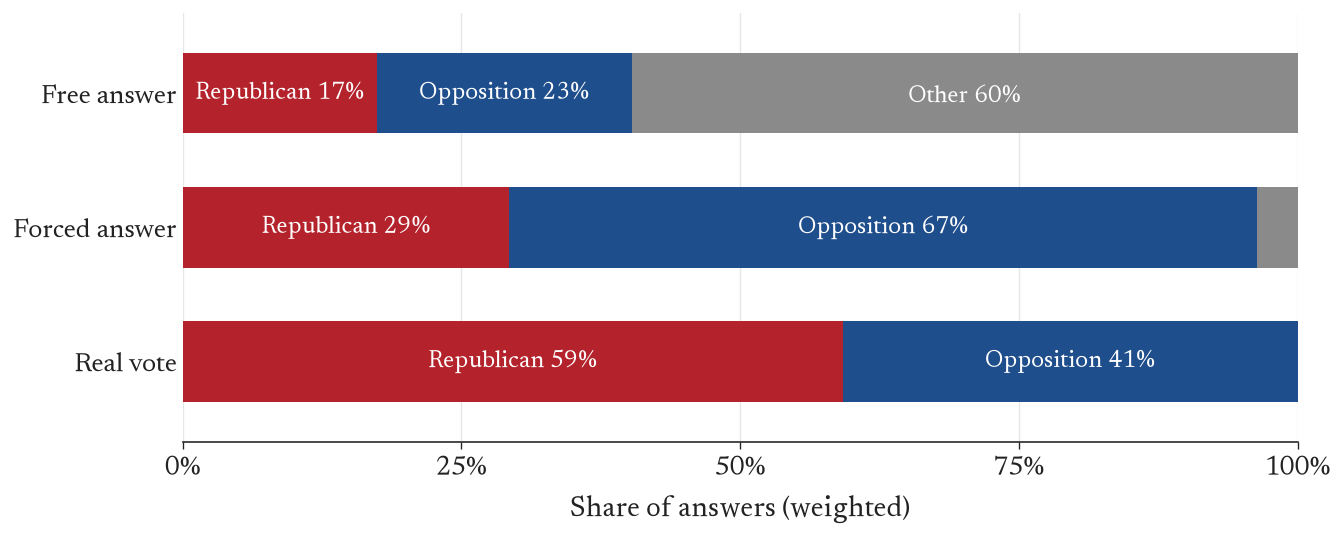
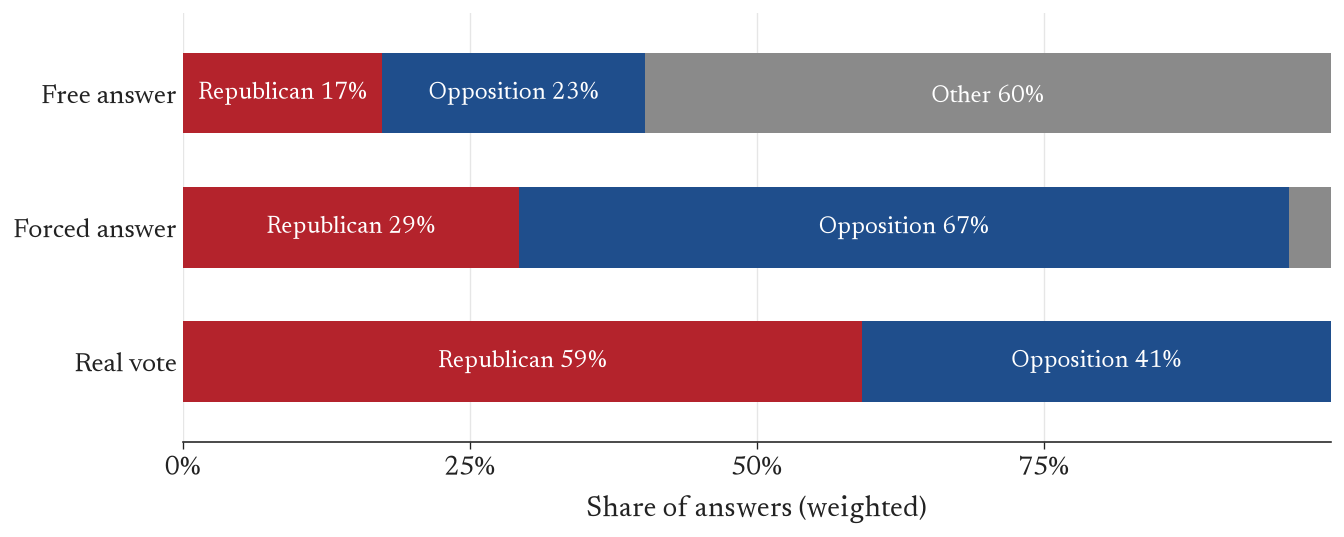
Wrote second opinions section and updated headers of files

diff --git a/docs/index.html b/docs/index.html
@@ -166,7 +166,7 @@ div.csl-indent {
 <section id="forecast" class="level2">
 <h2 class="anchored" data-anchor-id="forecast">The forecast</h2>
 <div id="cell-fig-seats" class="cell" data-execution_count="2">
-<div class="cell-output cell-output-display" data-execution_count="2">
+<div class="cell-output cell-output-display" data-execution_count="28">
 <div id="fig-seats" class="quarto-float quarto-figure quarto-figure-center anchored">
 <figure class="quarto-float quarto-float-fig figure">
 <div aria-describedby="fig-seats-caption-0ceaefa1-69ba-4598-a22c-09a6ac19f8ca">
@@ -183,7 +183,7 @@ Figure&nbsp;1: Republican seats after the 2026 election in 10,000 simulated elec
 <p>The most common outcomes are 52 Republican seats (10.4% of the simulations, also happens to be the median), 51 or 53 Republican seats (each 9.7% of the simulations), and an exact 50-50 tie (8.6% of the simulations). Republicans controlled the senate outright (51 or more seats) in 63% of the simulations. Republicans gained more seats compared to today (54 or more seats) in 33% of the simulations.</p>
 <p>Notice that the spread of the histogram is very wide. The 80% interval is from 47 to 57, which means that about 8 out of every 10 simulations have Republicans hold between 47 and 57 seats. The full range is 34 to 64 seats. Why is our histogram so wide? For every simulated election we introduce four kinds of uncertainty. First is a national error shared by every state, where we draw one number from a normal distribution with a set standard deviation of 3 percentage points to determine how far the forecast is off nationwide. This matters because if state wise errors were independent, they would often cancel each other out and lead to a bunched-together histogram around 52. Moving every state in the same direction is also honest because real polling misses also tend to run the same way across states, like in 2016 and 2020 <span class="citation" data-cites="gelman2020">(<a href="#ref-gelman2020" role="doc-biblioref">Gelman et al. 2020</a>)</span>. Second is a state error drawn for each separate race to capture local factors (effect of candidates, local issues, campaign success), it was measured as how far off the corrected forecast was for each state in the 2024 backtest and has a standard deviation of 4.7 percentage points. Third, in each simulation we pick one of two LLM models (GPT-4o mini or Llama 3.3 70B) and use its numbers for every state. And fourth, there is sampling error caused by the limited number of personas for each state (about 148 on average).</p>
 <div id="cell-fig-states" class="cell" data-execution_count="3">
-<div class="cell-output cell-output-display" data-execution_count="3">
+<div class="cell-output cell-output-display" data-execution_count="29">
 <div id="fig-states" class="quarto-float quarto-figure quarto-figure-center anchored">
 <figure class="quarto-float quarto-float-fig figure">
 <div aria-describedby="fig-states-caption-0ceaefa1-69ba-4598-a22c-09a6ac19f8ca">
@@ -272,7 +272,7 @@ Reply with exactly one of: Republican, Democrat, Other, Would not vote. No other
 <p>What is our backtest? We ran the same pipeline as described in the <a href="#method">method section</a>, but on the 2024 Senate races which already have known results. Here we had 4,833 personas in 33 races, and weights were <code>survey weight × each person’s validated 2024 turnout</code>. We compared the synthetic Republican share from each state with its actual 2024 result from <span class="citation" data-cites="wiki2024">Wikipedia contributors (<a href="#ref-wiki2024" role="doc-biblioref">2026a</a>)</span>. It is from this test that we got our calibration line and 4.7-point state error used to forecast 2026.</p>
 <p>Before any correction, the average lean (actual – synthetic) was +1.6 points for GPT and +3.3 points for Llama, meaning that real results were more Republican. The average miss was 5.7 points for GPT and 6.4 points for Llama. Both models called 28 out of 33 races correctly. Synthetic voters were too Democratic by an average of 4.3 points (GPT) and 6.5 points (Llama) in the 19 races that Democrats won. Synthetic voters were too Republican by a smaller average of 2.0 (GPT) and 1.0 (Llama) in the 14 races Republicans won. This matches <span class="citation" data-cites="bisbee2024">Bisbee et al. (<a href="#ref-bisbee2024" role="doc-biblioref">2024</a>)</span>, where synthetic samples show too little variation and exaggerate difference between groups. In <a href="#fig-backtest" class="quarto-xref">Figure&nbsp;3</a> below, the solid calibration line being flatter than the dashed line visualizes this “too extreme”. The wrong calls were mostly very close races. Both models incorrectly called Nevada, Pennsylvania, Wisconsin, and Ohio, which were all races that were decided by just a few points in 2024. After correction, GPT’s average miss fell to 3.9 points, and Llama’s fell to 3.8 points. GPT called 29 races, but Llama correctly called 28 still. We used leave-one-out to fit a line without the state being predicted, because partly fitting a line to the state being predicted may lead us to overestimate the improvement.</p>
 <div id="cell-fig-backtest" class="cell" data-execution_count="6">
-<div class="cell-output cell-output-display" data-execution_count="6">
+<div class="cell-output cell-output-display" data-execution_count="32">
 <div id="fig-backtest" class="quarto-float quarto-figure quarto-figure-center anchored">
 <figure class="quarto-float quarto-float-fig figure">
 <div aria-describedby="fig-backtest-caption-0ceaefa1-69ba-4598-a22c-09a6ac19f8ca">
@@ -286,7 +286,7 @@ Figure&nbsp;3: 2024 backtest. Each dot is one of the 33 Senate races of 2024: th
 </div>
 </div>
 <div id="cell-fig-agreement" class="cell" data-execution_count="7">
-<div class="cell-output cell-output-display" data-execution_count="7">
+<div class="cell-output cell-output-display" data-execution_count="33">
 <div id="fig-agreement" class="quarto-float quarto-figure quarto-figure-center anchored">
 <figure class="quarto-float quarto-float-fig figure">
 <div aria-describedby="fig-agreement-caption-0ceaefa1-69ba-4598-a22c-09a6ac19f8ca">
@@ -305,7 +305,7 @@ Figure&nbsp;4: Person by person in 2024: the share of synthetic voters who pick 
 <section id="independents" class="level2">
 <h2 class="anchored" data-anchor-id="independents">The independents problem</h2>
 <div id="cell-fig-independents" class="cell" data-execution_count="8">
-<div class="cell-output cell-output-display" data-execution_count="8">
+<div class="cell-output cell-output-display" data-execution_count="34">
 <div id="fig-independents" class="quarto-float quarto-figure quarto-figure-center anchored">
 <figure class="quarto-float quarto-float-fig figure">
 <div aria-describedby="fig-independents-caption-0ceaefa1-69ba-4598-a22c-09a6ac19f8ca">
@@ -318,19 +318,15 @@ Figure&nbsp;5: The 711 pure independents in the 2024 backtest. Free answer: what
 </div>
 </div>
 </div>
-<div class="write">
-<p>Asked freely, the models give 60% of pure independents’ answers to “Other”. Forced to choose, they send them to the opposition (67%), while the same people reported voting 59% Republican. Explain why we used the forced choice anyway and that it is the same in 2024 and 2026. Connect to mode collapse in <span class="citation" data-cites="heath2026">Heath and Alexander (<a href="#ref-heath2026" role="doc-biblioref">2026</a>)</span>.</p>
-</div>
+<p>For pure independents, 60% of model answers were “Other”. However in our 2024 backtest, 351 of the 360 pure independents who reported a Senate vote voted for a Republican or their main opposition. This is an example of mode collapse as mentioned in <span class="citation" data-cites="heath2026">Heath and Alexander (<a href="#ref-heath2026" role="doc-biblioref">2026</a>)</span>, where the models settle on a safe answer and fail to capture the spread the real voters provide. In our study “Other” answers do not count for a persona’s Republican share, so about half of pure independents had no usable answers when answering freely. To alleviate this, we included a forced-choice follow-up: “If you had to choose between the Republican candidate and the Democratic candidate…” The forced-choice gave the opposition 67% of the answers, but in reality 59% of the group voted Republican. We used this follow-up in both the 2024 backtest and the 2026 forecast, so the calibration line can correct part of the lean on average across each state. We decided to keep this change because to trade answers that would have been discarded for a bias that we could measure in the 2024 backtest.</p>
 </section>
 <section id="second-opinions" class="level2">
 <h2 class="anchored" data-anchor-id="second-opinions">Second opinions</h2>
 <section id="a-regression-forecast" class="level3">
 <h3 class="anchored" data-anchor-id="a-regression-forecast">A regression forecast</h3>
-<div class="write">
-<p>Two or three sentences on the regression: a ridge regression of each state’s Senate vote on its lagged demographics and partisanship, 2014 to 2024, checked against certified results. The full write-up and code are in the repository (<code>paper/_regression.qmd</code>, <code>scripts/05-regression.py</code>). The two methods name the same winner in 31 of 35 races.</p>
-</div>
+<p>As a second opinion, we ran a ridge regression that predicts each state’s Senate vote share using state demographics from the American Community Survey (ACS) and partisanship from CES. The regression is trained on the 2014 to 2024 Senate races. The ridge regression and our silicon forecast predicted the same winner in 31 out of 35 races. They disagreed in Florida, Georgia, Montana and North Carolina. See <a href="#tbl-accuracy" class="quarto-xref">Table&nbsp;1</a> below for comparisons of winners called and average misses between our ridge and silicon sampling.</p>
 <div id="cell-fig-regression" class="cell" data-execution_count="9">
-<div class="cell-output cell-output-display" data-execution_count="9">
+<div class="cell-output cell-output-display" data-execution_count="35">
 <div id="fig-regression" class="quarto-float quarto-figure quarto-figure-center anchored">
 <figure class="quarto-float quarto-float-fig figure">
 <div aria-describedby="fig-regression-caption-0ceaefa1-69ba-4598-a22c-09a6ac19f8ca">
@@ -386,7 +382,7 @@ Table&nbsp;1: Accuracy on the 33 Senate races of 2024, out of sample for both me
 <section id="do-the-models-agree" class="level3">
 <h3 class="anchored" data-anchor-id="do-the-models-agree">Do the models agree?</h3>
 <div id="cell-fig-models" class="cell" data-execution_count="11">
-<div class="cell-output cell-output-display" data-execution_count="11">
+<div class="cell-output cell-output-display" data-execution_count="37">
 <div id="fig-models" class="quarto-float quarto-figure quarto-figure-center anchored">
 <figure class="quarto-float quarto-float-fig figure">
 <div aria-describedby="fig-models-caption-0ceaefa1-69ba-4598-a22c-09a6ac19f8ca">
@@ -399,9 +395,7 @@ Figure&nbsp;7: Raw Republican share by race from each model’s synthetic voters
 </div>
 </div>
 </div>
-<div class="write">
-<p>What the comparison shows: the three models land close together, and DeepSeek is more Democratic in most competitive races. What that might mean (it knows the 2026 political environment, the older models do not).</p>
-</div>
+<p><a href="#fig-models" class="quarto-xref">Figure&nbsp;7</a> shows raw Republican share by race from each model’s synthetic voters before any calibration. DeepSeek is only shown here because it has training data from 2025-26, which means it cannot be backtested on 2024, so we left it out of the forecast entirely. The models mostly agree with each other, but in Texas, GPT gave Republicans 55% and Llama 42%. So Texas may not just be a toss-up because the race itself is close, but also because the two models disagree about which party is ahead, and the forecast just averages over both.</p>
 </section>
 </section>
 <section id="limits" class="level2">
@@ -474,6 +468,7 @@ Table&nbsp;2: Every model call made for this project, through OpenRouter. The fi
 </figure>
 </div>
 </div>
+<p>In our silicon sampling forecast, the models added little beyond party, struggled with independents, and required a calibration line to adjust the spread. The silicon sampling worked mostly as a count of party identification, plus a correction. <span class="citation" data-cites="argyle2023">Argyle et al. (<a href="#ref-argyle2023" role="doc-biblioref">2023</a>)</span> mentions “algorithmic fidelity”, how language models can help reproduce how groups of voters behave. Our results support this for partisans with about 94.2% agreement, which was no better than just knowing their party (party baseline of 94.7%). <span class="citation" data-cites="argyle2023">Argyle et al. (<a href="#ref-argyle2023" role="doc-biblioref">2023</a>)</span> also found that fidelity was weakest for pure independents, which our 64.9% pure independent agreement also supported. <span class="citation" data-cites="bisbee2024">Bisbee et al. (<a href="#ref-bisbee2024" role="doc-biblioref">2024</a>)</span> argued that silicon sampling led to too little variance and exaggerated differences. Our synthetic states were too extreme: our calibration slopes of ~0.63 suggest that real results are just two-thirds as lopsided. <span class="citation" data-cites="heath2026">Heath and Alexander (<a href="#ref-heath2026" role="doc-biblioref">2026</a>)</span> brings up mode collapse, which happened in our silicon sampling process when 60% of pure independent answers were “Other”, whereas 98% of the real pure independents who reported that they voted selected a main candidate. <span class="citation" data-cites="gelman2020">Gelman et al. (<a href="#ref-gelman2020" role="doc-biblioref">2020</a>)</span> argues that errors are correlated across states. We followed their advice, and our national error and model choice move every state together, which gives us our 80% interval of 47 to 57 seats, and it is the simplest way we could have made our states move together, which is a limit. Our 3-point national error is an assumption we chose rather than something we measured.</p>
 <div class="write">
 <p>Discussion, connecting to the literature: <span class="citation" data-cites="argyle2023">Argyle et al. (<a href="#ref-argyle2023" role="doc-biblioref">2023</a>)</span> (algorithmic fidelity; independents), <span class="citation" data-cites="bisbee2024">Bisbee et al. (<a href="#ref-bisbee2024" role="doc-biblioref">2024</a>)</span> (too little variance, exaggerated differences: our slope of about 0.63), <span class="citation" data-cites="heath2026">Heath and Alexander (<a href="#ref-heath2026" role="doc-biblioref">2026</a>)</span> (mode collapse; our “Other” answers), <span class="citation" data-cites="gelman2020">Gelman et al. (<a href="#ref-gelman2020" role="doc-biblioref">2020</a>)</span> (correlated errors, the national swing as an assumption, rounding probabilities). Limits: one calibration election, from a presidential year; the 3-point national swing is assumed; candidates are described by party only; no 2026 survey; three-way races (Maine 2024, Montana and Mississippi 2026) are measured against the combined opposition. Where the forecast disagrees with expert ratings (Massachusetts, Illinois, Michigan, Ohio, Nebraska, Alaska) and why. Total cost: US$4.43.</p>
 </div>

diff --git a/scripts/07-race_views.py b/scripts/07-race_views.py
@@ -3,9 +3,9 @@
 #          red-blue bar, nominee names and portraits, the predicted winner shown larger;
 #          (2) a USA map coloured by predicted winner (blue Democratic, red Republican,
 #          grey no race) with the winner's name in each state.
-# Author: Yi Zhi Zhang
+# Author: Bolong Tang
 # Date: 30 October 2026
-# Contact: yizhiharry.zhang@mail.utoronto.ca
+# Contact: bolong.tang@mail.utoronto.ca
 # License: MIT
 # Pre-requisites: scripts/05-regression.py outputs; data/01-raw_data/candidates_2026.csv
 #   (scripts/01e-download_candidates.py); data/01-raw_data/us-states.geojson (downloaded

diff --git a/scripts/01b-download_acs.py b/scripts/01b-download_acs.py
@@ -1,9 +1,9 @@
 #### Preamble ####
 # Purpose: Download state-level demographics from the Census Bureau ACS 5-year
 #          estimates for 2012-2024 (lagged features need the cycle two years earlier) (2024 is reused for the 2026 forecast).
-# Author: Yi Zhi Zhang
+# Author: Bolong Tang
 # Date: 30 October 2026
-# Contact: yizhiharry.zhang@mail.utoronto.ca
+# Contact: bolong.tang@mail.utoronto.ca
 # License: MIT
 # Pre-requisites: Internet access (api.census.gov) and a free Census API key
 #   (https://api.census.gov/data/key_signup.html), supplied as the environment

diff --git a/scripts/05-regression.py b/scripts/05-regression.py
@@ -3,9 +3,9 @@
 #          Undecided-or-other) on state demographics and partisanship, test the
 #          fit, and forecast the 2026 Senate races. Three training sets are
 #          compared: 2022 only, 2024 only, and 2022 + 2024.
-# Author: Yi Zhi Zhang
+# Author: Bolong Tang
 # Date: 30 October 2026
-# Contact: yizhiharry.zhang@mail.utoronto.ca
+# Contact: bolong.tang@mail.utoronto.ca
 # License: MIT
 # Pre-requisites: Run 01-download_data.py. Optional inputs that add features and
 #   an independent accuracy check (the script runs without them):

diff --git a/scripts/01e-download_candidates.py b/scripts/01e-download_candidates.py
@@ -2,9 +2,9 @@
 # Purpose: Collect the 2026 U.S. Senate candidates (Democratic and Republican nominees,
 #          incumbent status) and official portraits of those who serve or have served
 #          in Congress, for the race cards and map on the website.
-# Author: Yi Zhi Zhang
+# Author: Bolong Tang
 # Date: 30 October 2026
-# Contact: yizhiharry.zhang@mail.utoronto.ca
+# Contact: bolong.tang@mail.utoronto.ca
 # License: MIT
 # Pre-requisites: Internet access. No account needed.
 #

diff --git a/scripts/01c-download_results.py b/scripts/01c-download_results.py
@@ -2,9 +2,9 @@
 # Purpose: Download certified statewide U.S. Senate returns and keep the general-
 #          election Democratic vs Republican contest for each state and cycle, for
 #          checking the regression against real results.
-# Author: Yi Zhi Zhang
+# Author: Bolong Tang
 # Date: 30 October 2026
-# Contact: yizhiharry.zhang@mail.utoronto.ca
+# Contact: bolong.tang@mail.utoronto.ca
 # License: MIT
 # Pre-requisites: Internet access. No account needed.
 #

diff --git a/tests/test_results.py b/tests/test_results.py
@@ -1,9 +1,9 @@
 #### Preamble ####
 # Purpose: Test how certified Senate returns are reduced to one Dem-v-Rep race per
 #          state and year, and that the real file (if present) fits the regression.
-# Author: Yi Zhi Zhang
+# Author: Bolong Tang
 # Date: 30 October 2026
-# Contact: yizhiharry.zhang@mail.utoronto.ca
+# Contact: bolong.tang@mail.utoronto.ca
 # License: MIT
 # Pre-requisites: None (real-file checks skip if senate_results.csv is absent)
 

diff --git a/scripts/00b-simulate_regression_inputs.py b/scripts/00b-simulate_regression_inputs.py
@@ -2,9 +2,9 @@
 # Purpose: Simulate the inputs of scripts/05-regression.py (CES-like respondents,
 #          ACS-like state features, certified-style Senate results) so the
 #          regression can run end to end before the real downloads exist.
-# Author: Yi Zhi Zhang
+# Author: Bolong Tang
 # Date: 30 October 2026
-# Contact: yizhiharry.zhang@mail.utoronto.ca
+# Contact: bolong.tang@mail.utoronto.ca
 # License: MIT
 # Pre-requisites: None
 #

diff --git a/tests/test_regression.py b/tests/test_regression.py
@@ -1,9 +1,9 @@
 #### Preamble ####
 # Purpose: Test the regression pipeline: helpers on small synthetic data, the
 #          certified-results loader, and the real-data forecast outputs.
-# Author: Yi Zhi Zhang
+# Author: Bolong Tang
 # Date: 30 October 2026
-# Contact: yizhiharry.zhang@mail.utoronto.ca
+# Contact: bolong.tang@mail.utoronto.ca
 # License: MIT
 # Pre-requisites: data/01-raw_data/ces_2022_2024.parquet (the sample is not enough)
 

diff --git a/scripts/01d-download_president.py b/scripts/01d-download_president.py
@@ -2,9 +2,9 @@
 # Purpose: Download certified statewide presidential returns and keep the Democratic
 #          and Republican totals per state and election, for the "last presidential
 #          result" baseline.
-# Author: Yi Zhi Zhang
+# Author: Bolong Tang
 # Date: 30 October 2026
-# Contact: yizhiharry.zhang@mail.utoronto.ca
+# Contact: bolong.tang@mail.utoronto.ca
 # License: MIT
 # Pre-requisites: Internet access. No account needed.
 #

diff --git a/scripts/06-make_figures.py b/scripts/06-make_figures.py
@@ -1,9 +1,9 @@
 #### Preamble ####
 # Purpose: Build the figures for the regression forecast (used by
 #          paper/regression.qmd) and save them as PNGs in paper/figures/.
-# Author: Yi Zhi Zhang
+# Author: Bolong Tang
 # Date: 30 October 2026
-# Contact: yizhiharry.zhang@mail.utoronto.ca
+# Contact: bolong.tang@mail.utoronto.ca
 # License: MIT
 # Pre-requisites: scripts/05-regression.py and its inputs (real or simulated)
 #

diff --git a/tests/test_race_views.py b/tests/test_race_views.py
@@ -1,8 +1,8 @@
 #### Preamble ####
 # Purpose: Test the candidate parser, the portrait matcher, the race cards and the winner map.
-# Author: Yi Zhi Zhang
+# Author: Bolong Tang
 # Date: 30 October 2026
-# Contact: yizhiharry.zhang@mail.utoronto.ca
+# Contact: bolong.tang@mail.utoronto.ca
 # License: MIT
 # Pre-requisites: None (the geometry test skips if data/01-raw_data/us-states.geojson is absent)
 
